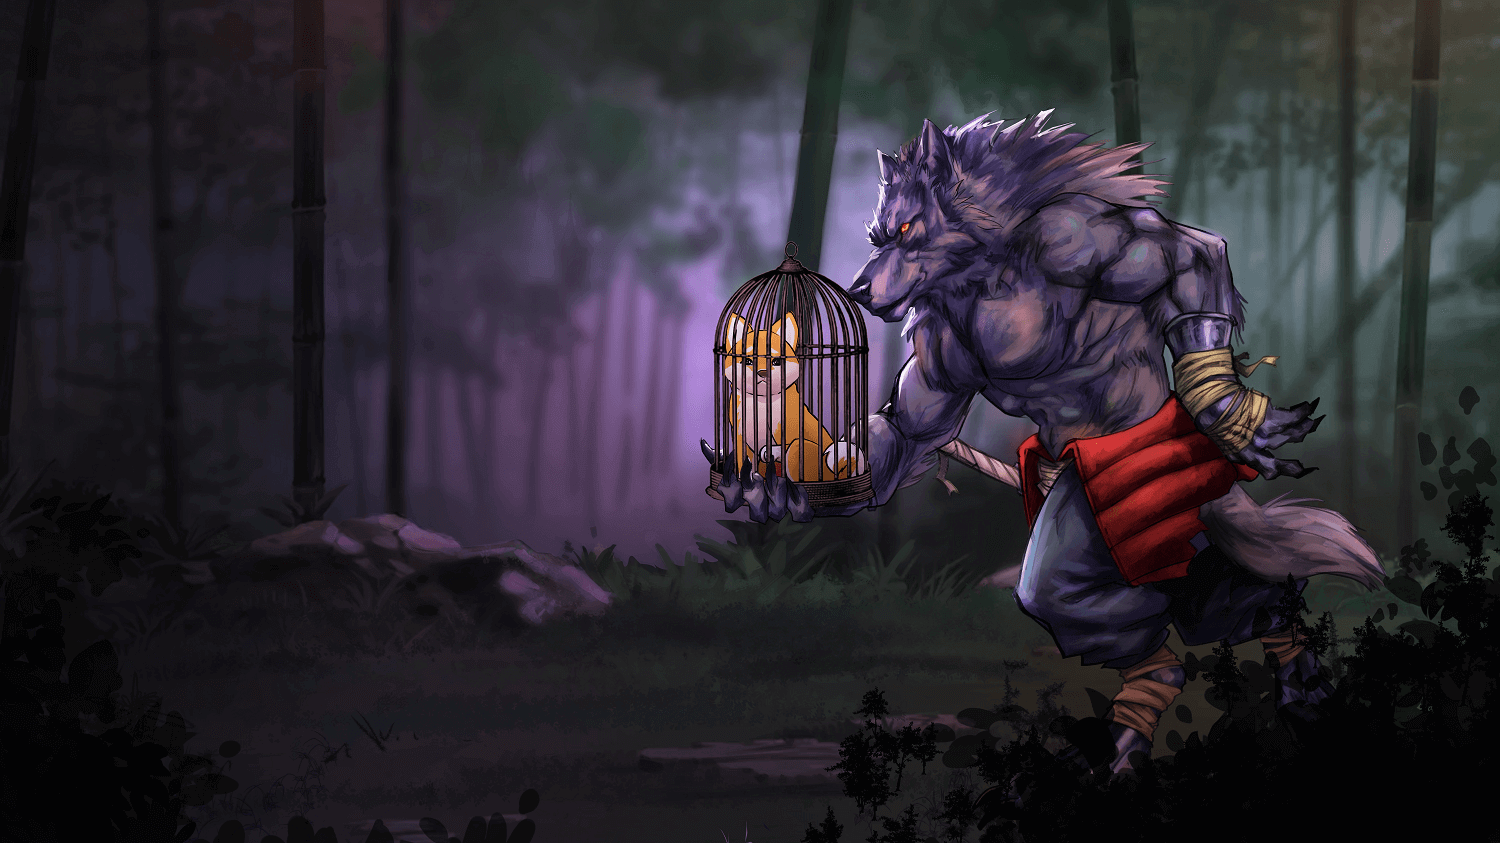
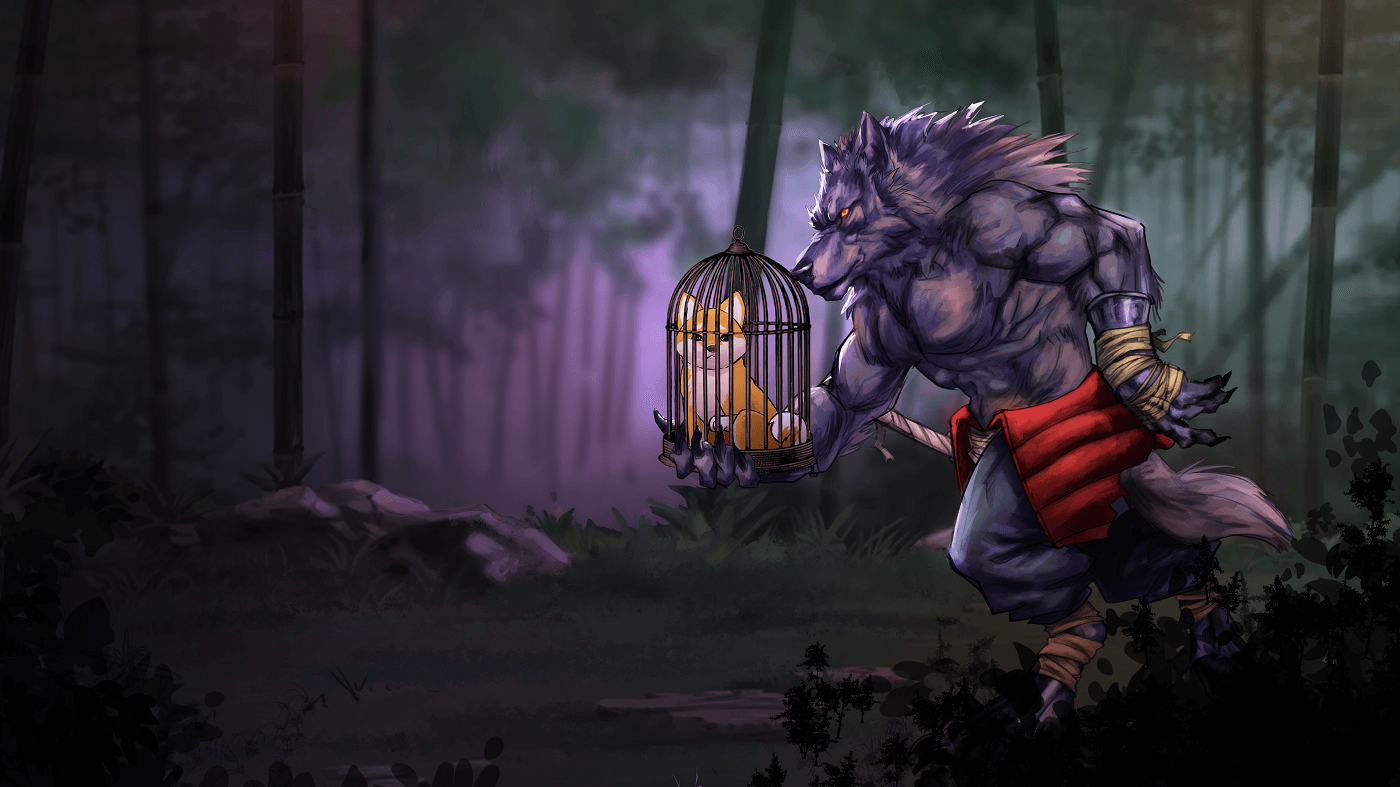
added gif to hero section

Changed region(s): [[0.4607, 0.3355, 0.5836, 0.5489], [0.645, 0.122, 0.6757, 0.1525]]

diff --git a/assets/scss/style.scss b/assets/scss/style.scss
@@ -351,6 +351,22 @@ img.mobile{
     }
 }
 
+.fire-group{
+    img{
+        height: 200px;
+        width: auto;
+        position: absolute;
+    }
+    .left-fire {
+        top: 70%;
+        left: 10px;
+    }
+    .right-fire {
+        right: 1%;
+        top: -0%;
+    }
+}
+
 @media only screen and (max-width: 940px) {
     .hero-img{
         height: 60%;
@@ -380,6 +396,22 @@ img.mobile{
             width: 100%;
         }
     }
+    .fire-group{
+        img{
+            height: 100px;
+            width: auto;
+            position: absolute;
+        }
+        .left-fire {
+            top: 50%;
+            left: -40px;
+        }
+        .right-fire {
+            right: -10%;
+            top: -0%;
+        }
+    }
+    
 }
 
 

diff --git a/assets/css/style.css b/assets/css/style.css
@@ -434,6 +434,20 @@ img.mobile {
   margin-right: 24px;
 }
 
+.fire-group img {
+  height: 200px;
+  width: auto;
+  position: absolute;
+}
+.fire-group .left-fire {
+  top: 70%;
+  left: 10px;
+}
+.fire-group .right-fire {
+  right: 1%;
+  top: 0%;
+}
+
 @media only screen and (max-width: 940px) {
   .hero-img {
     height: 60%;
@@ -460,6 +474,20 @@ img.mobile {
   }
   .hero-details .available-img {
     width: 100%;
+  }
+
+  .fire-group img {
+    height: 100px;
+    width: auto;
+    position: absolute;
+  }
+  .fire-group .left-fire {
+    top: 50%;
+    left: -40px;
+  }
+  .fire-group .right-fire {
+    right: -10%;
+    top: 0%;
   }
 }
 @media (max-width: 430px) {

diff --git a/index.html b/index.html
@@ -96,6 +96,10 @@
                         </button>
                     </div>
                 </div>
+                <div class="fire-group">
+                    <img src="assets/images/fire.gif" alt="Moving picture of Fire" class="left-fire">
+                    <img src="assets/images/fire.gif" alt="Moving picture of Fire" class="right-fire">
+                </div>
             </div>
         </div>
     </header>
